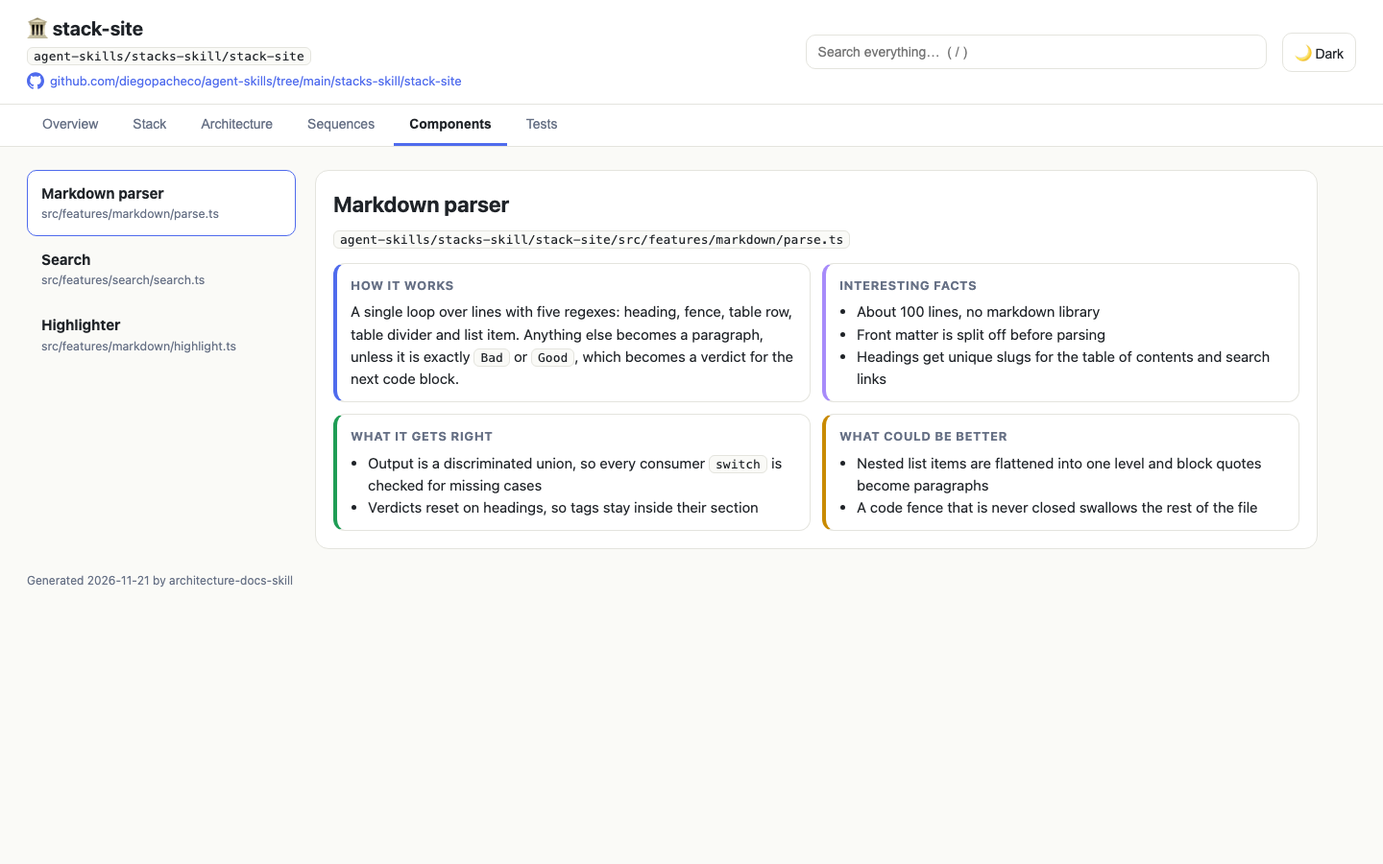
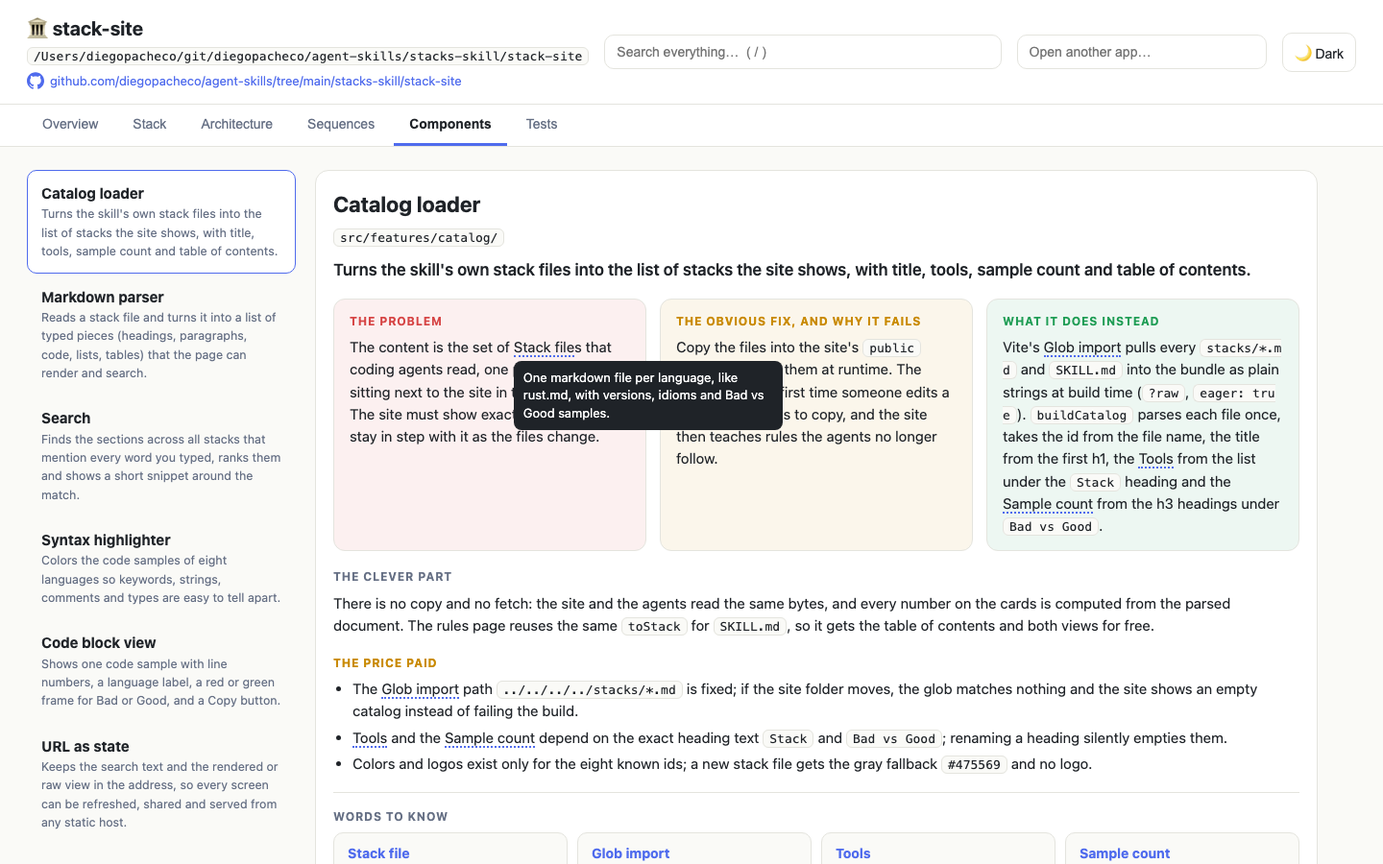
architecture-docs-skill: swimlane sequences with a why per step, problem-first components with words to know
Components are 5-7 per site, picked on the left, with hover terms validated by the build.

diff --git a/architecture-docs-skill/template/site.html b/architecture-docs-skill/template/site.html
@@ -35,8 +35,11 @@ table{width:100%;border-collapse:collapse}td,th{text-align:left;padding:9px 10px
 .about{margin-top:16px}.about h3{margin:0 0 8px}.about ol{margin:0;padding-left:22px}.about li{margin:4px 0}
 .notes{display:grid;grid-template-columns:1fr 1fr;gap:12px;margin-top:16px}.note{border:1px solid var(--line);border-left:4px solid var(--acc);border-radius:12px;padding:12px 14px;background:var(--card)}.note b{display:block;margin-bottom:4px}
 .files{margin-top:14px;display:flex;gap:8px;flex-wrap:wrap;align-items:center;color:var(--mute);font-size:13px}
-.q4{display:grid;grid-template-columns:1fr 1fr;gap:12px}.q4>div{border:1px solid var(--line);border-radius:12px;padding:12px 14px}.q4 h4{margin:0 0 6px;font-size:13px;text-transform:uppercase;letter-spacing:.04em;color:var(--mute)}.q4 ul{margin:0;padding-left:18px}
-.q4 .r{border-left:4px solid var(--ok)}.q4 .b{border-left:4px solid var(--warn)}.q4 .h{border-left:4px solid var(--acc)}.q4 .f{border-left:4px solid #a78bfa}
+.cc .one{font-size:17px;font-weight:600;margin:10px 0 0}.cc .sec{margin-top:18px}.cc .sec h4{margin:0 0 6px;font-size:12px;letter-spacing:.07em;text-transform:uppercase;color:var(--mute)}.cc .sec p{margin:0}.cc .sec ul{margin:0;padding-left:20px}.cc .sec li{margin:4px 0}.cc .warn h4{color:var(--warn)}
+.flow3{display:grid;grid-template-columns:repeat(3,1fr);gap:14px;margin-top:16px}.flow3>div{border-radius:12px;padding:14px 16px;border:1px solid var(--line)}.flow3 h4{margin:0 0 6px;font-size:12px;letter-spacing:.07em;text-transform:uppercase}
+.flow3 .p1{background:#d6454514}.flow3 .p1 h4{color:var(--bad)}.flow3 .p2{background:#c98a0014}.flow3 .p2 h4{color:var(--warn)}.flow3 .p3{background:#1f9d5514}.flow3 .p3 h4{color:var(--ok)}
+.words{border-top:1px solid var(--line);padding-top:16px;margin-top:22px}.terms{display:grid;grid-template-columns:repeat(auto-fill,minmax(230px,1fr));gap:10px}.terms div{background:var(--bg);border:1px solid var(--line);border-radius:10px;padding:10px 14px;font-size:14px}.terms b{display:block;color:var(--acc)}
+.term{border-bottom:2px dotted var(--acc);cursor:help;position:relative}.term:hover:after{content:attr(data-d);position:absolute;left:0;top:130%;width:260px;background:var(--ink);color:var(--card);font-size:13px;line-height:1.45;padding:8px 10px;border-radius:8px;z-index:5;font-weight:400}
 .stk{display:grid;grid-template-columns:repeat(auto-fill,minmax(250px,1fr));gap:12px}.stk h3{grid-column:1/-1;margin:14px 0 0;font-size:13px;text-transform:uppercase;letter-spacing:.06em;color:var(--mute)}
 .tech{display:grid;grid-template-columns:44px 1fr;gap:4px 12px;align-items:center;text-decoration:none;color:inherit;transition:.15s}a.tech:hover{border-color:var(--acc);transform:translateY(-2px)}
 .tech .lg{grid-row:span 2;width:44px;height:44px;border-radius:10px;background:var(--bg);border:1px solid var(--line);display:grid;place-items:center}.tech .lg svg{width:26px;height:26px}.tech .lg span{font-weight:800;font-size:15px;color:var(--acc)}
@@ -45,7 +48,7 @@ table{width:100%;border-collapse:collapse}td,th{text-align:left;padding:9px 10px
 .ctr .present b{color:var(--ok)}.ctr .partial b{color:var(--warn)}.ctr .missing b{color:var(--bad)}.ctr .n\/a b{color:var(--mute)}.ctr .total{background:var(--acc);border-color:var(--acc)}.ctr .total b,.ctr .total span{color:#fff}
 .loc{margin-top:16px}.loc h3{margin:0 0 4px}.loc .sum{color:var(--mute);font-size:13px;margin:0 0 12px}.lrow{display:grid;grid-template-columns:24px 120px 1fr 170px;gap:10px;align-items:center;margin:7px 0;font-size:14px}.lrow svg{width:20px;height:20px}.lrow .mono{font-size:10px;font-weight:800;color:var(--acc)}.lrow i{display:block;height:12px;border-radius:6px;background:var(--acc);min-width:3px}.lrow span{text-align:right;color:var(--mute);font-variant-numeric:tabular-nums}.lrow span b{color:var(--ink)}
 .runner{color:var(--mute);font-size:14px;margin:0 0 14px}.foot{color:var(--mute);font-size:12px;padding:0 28px 30px}
-@media (max-width:900px){.md,.notes,.q4{grid-template-columns:1fr}.top{flex-wrap:wrap}}
+@media (max-width:900px){.md,.notes,.flow3{grid-template-columns:1fr}.top{flex-wrap:wrap}}
 </style></head><body>
 <div class="top"><div><h1>🏛 <span id="pn"></span></h1><div class="where" id="wh"></div></div><div class="search"><input id="q" placeholder="Search everything…  ( / )" aria-label="Search"><div class="results" id="r" hidden></div></div><div class="search apps" id="ap" hidden><input id="aq" placeholder="Open another app…" aria-label="Open another app"><div class="results" id="ar" hidden></div></div><button class="btn" id="th"></button></div>
 <div class="tabs" id="tb"></div><div class="pane" id="p"></div><div class="foot" id="ft"></div>
@@ -114,9 +117,14 @@ function testsView() {
   ${D.tests.runner ? `<p class="runner">Runner: ${rich(D.tests.runner)}</p>` : ""}
   <table><tr><th>Kind</th><th>Count</th><th>Status</th><th>Where</th><th>Notes</th></tr>${T.map(t => `<tr><td><b>${esc(t.kind)}</b></td><td><b>${t.count.toLocaleString()}</b></td><td><span class="pill ${t.status}">${STATUS[t.status]}</span></td><td><code>${esc(t.where || "-")}</code></td><td>${rich(t.note)}</td></tr>`).join("")}</table>`;
 }
-const quad = c => { const li = a => a.map(x => `<li>${rich(x)}</li>`).join(""); return `<div class="q4"><div class="h"><h4>How it works</h4>${rich(c.how)}</div><div class="f"><h4>Interesting facts</h4><ul>${li(c.facts)}</ul></div><div class="r"><h4>What it gets right</h4><ul>${li(c.right)}</ul></div><div class="b"><h4>What could be better</h4><ul>${li(c.better)}</ul></div></div>`; };
+const termed = (c, s) => String(s ?? "").split(/(`[^`]+`)/).map((part, i) => i % 2 ? rich(part) : esc(part).replace(/\[([^\]]+)\]/g, (m, w) => { const t = c.terms.find(x => x[0].toLowerCase() === w.toLowerCase()); return t ? `<span class="term" data-d="${esc(plain(t[1]))}">${w}</span>` : w; })).join("");
+const compCard = c => `<div class="card cc"><h2 style="margin:0 0 4px">${esc(c.name)}</h2><code class="cp" title="Click to copy" data-path="${esc(full(c.path))}">${esc(c.path)}</code><p class="one">${rich(c.one)}</p>
+<div class="flow3"><div class="p1"><h4>The problem</h4>${termed(c, c.problem)}</div><div class="p2"><h4>The obvious fix, and why it fails</h4>${termed(c, c.naive)}</div><div class="p3"><h4>What it does instead</h4>${termed(c, c.instead)}</div></div>
+<div class="sec"><h4>The clever part</h4><p>${termed(c, c.clever)}</p></div>
+<div class="sec warn"><h4>The price paid</h4><ul>${c.better.map(x => `<li>${termed(c, x)}</li>`).join("")}</ul></div>
+<div class="sec words"><h4>Words to know</h4><div class="terms">${c.terms.map(([w, d]) => `<div><b>${esc(w)}</b>${rich(d)}</div>`).join("")}</div></div></div>`;
 const seqExtra = s => `<div class="notes">${(s.notes || []).map(n => `<div class="note"><b>${rich(n.q)}</b>${rich(n.a)}</div>`).join("")}</div>${s.code && s.code.length ? `<div class="files">Code: ${s.code.map(c => `<code class="cp" title="Click to copy" data-path="${esc(full(c))}">${esc(c)}</code>`).join("")}</div>` : ""}`;
-const list = (items, cur, kind) => `<div class="list">${items.map(x => `<div class="${x.id === cur ? "on" : ""}" data-${kind}="${esc(x.id)}"><b>${esc(x.title || x.name)}</b><small>${esc(plain(x.why || x.path))}</small></div>`).join("")}</div>`;
+const list = (items, cur, kind) => `<div class="list">${items.map(x => `<div class="${x.id === cur ? "on" : ""}" data-${kind}="${esc(x.id)}"><b>${esc(x.title || x.name)}</b><small>${esc(plain(x.why || x.one || x.path))}</small></div>`).join("")}</div>`;
 
 const TABS = { overview: "Overview", stack: "Stack", arch: "Architecture", seq: "Sequences", comp: "Components", tests: "Tests" };
 const state = { tab: "overview", seq: D.sequences[0]?.id, open: new Set(), comp: D.components[0]?.id };
@@ -128,7 +136,7 @@ function render() {
     stack: `<div class="stk">${stackView()}</div>`,
     arch: `<div class="card">${archSvg()}</div>${about()}`,
     seq: s ? `<div class="md">${list(D.sequences, state.seq, "seq")}<div><div class="card"><div class="ctrl"><button class="btn" id="oa">${state.open.size === s.steps.length ? "Close all" : "Open all"}</button><span>Click a step to see why it happens</span></div>${lanes(s, state.open)}</div>${seqExtra(s)}</div></div>` : "",
-    comp: c ? `<div class="md">${list(D.components, state.comp, "comp")}<div class="card"><h2 style="margin:0 0 6px">${esc(c.name)}</h2><p style="margin:0 0 14px"><code class="cp" title="Click to copy" data-path="${esc(full(c.path))}">${esc(full(c.path))}</code></p>${quad(c)}</div></div>` : "",
+    comp: c ? `<div class="md">${list(D.components, state.comp, "comp")}${compCard(c)}</div>` : "",
     tests: testsView()
   }[state.tab];
   tb.querySelectorAll("button").forEach(b => b.onclick = () => { state.tab = b.dataset.k; render(); });
@@ -146,7 +154,7 @@ function searchIndex() {
     ...D.stack.map(s => ({ sec: "Stack", title: s.name, text: plain(`${s.layer} ${s.version} ${s.why}`), target: "stack" })),
     ...D.arch.nodes.map(n => ({ sec: "Architecture", title: n.label, text: n.sub || "", target: "arch" })),
     ...D.sequences.map(s => ({ sec: "Sequence", title: s.title, text: plain([s.why, ...s.steps.flatMap(x => [x[2], x[3]]), ...(s.notes || []).flatMap(n => [n.q, n.a]), ...(s.code || [])].join(" ")), target: "seq:" + s.id })),
-    ...D.components.map(c => ({ sec: "Component", title: c.name, text: plain([c.path, c.how, ...c.facts, ...c.right, ...c.better].join(" ")), target: "comp:" + c.id })),
+    ...D.components.map(c => ({ sec: "Component", title: c.name, text: plain([c.path, c.one, c.problem, c.naive, c.instead, c.clever, ...c.better, ...c.terms.flat()].join(" ")).replace(/[\[\]]/g, ""), target: "comp:" + c.id })),
     ...D.tests.kinds.map(t => ({ sec: "Tests", title: t.kind, text: plain(`${t.count} ${t.status} ${t.where || ""} ${t.note}`), target: "tests" }))
   ];
 }

diff --git a/architecture-docs-skill/tests/test_scripts.py b/architecture-docs-skill/tests/test_scripts.py
@@ -27,13 +27,13 @@ def valid_doc(root):
     write(root, "src/b.rs", "fn b() {}\n")
     write(root, "src/c.rs", "fn c() {}\n")
     seq = lambda i: {"id": f"s{i}", "title": f"Flow {i}", "why": "w", "actors": ["A", "B"], "steps": [["A", "B", "call", "why call"], ["B", "B", "self", "why self"], ["B", "A", "reply", "why reply"], ["A", "A", "done", "why done"]], "notes": [{"q": "q1", "a": "a1"}, {"q": "q2", "a": "a2"}], "code": ["src/a.rs:1"]}
-    comp = lambda i, f: {"id": f"c{i}", "name": f"C{i}", "path": f, "how": "h", "facts": ["f"], "right": ["r"], "better": ["b"]}
+    comp = lambda i, f: {"id": f"c{i}", "name": f"C{i}", "path": f, "one": "o", "problem": "A [Job] is slow.", "naive": "n", "instead": "Uses `q[0]` per [job].", "clever": "c", "better": ["b"], "terms": [["Job", "one unit of work"], ["Tick", "a timer beat"], ["Slot", "room for one job"]]}
     return {
         "project": "P", "path": root, "repo": "", "tagline": "t", "summary": ["one", "two", "three"],
         "stack": [{"layer": "Backend", "name": "Rust", "version": "1.91", "logo": "rust", "url": "https://www.rust-lang.org", "why": "w"}],
         "arch": {"nodes": [{"id": n, "label": n.upper(), "sub": "", "kind": "core", "col": i, "row": 0} for i, n in enumerate("abcdef")], "edges": [["a", "b", "x"]]},
         "sequences": [seq(1), seq(2), seq(3)],
-        "components": [comp(1, "src/a.rs"), comp(2, "src/b.rs"), comp(3, "src/")],
+        "components": [comp(1, "src/a.rs"), comp(2, "src/b.rs"), comp(3, "src/"), comp(4, "src/c.rs"), comp(5, "src/a.rs")],
         "tests": {"runner": "", "kinds": [{"kind": k, "status": "present" if k == "Unit" else "missing", "count": 3 if k == "Unit" else 0, "where": "src", "note": "n"} for k in build.TEST_KINDS]},
     }
 
@@ -125,6 +125,42 @@ class ValidateTest(unittest.TestCase):
             doc = valid_doc(root)
             doc["sequences"][0]["steps"][0] = ["A", "B", "call", ""]
             with self.assertRaisesRegex(build.DataError, "why is required"):
+                build.validate(doc)
+
+    def test_fewer_than_five_components_fail_because_the_page_promises_five_to_seven(self):
+        with tempfile.TemporaryDirectory() as root:
+            doc = valid_doc(root)
+            doc["components"] = doc["components"][:4]
+            with self.assertRaisesRegex(build.DataError, "components: expected 5-7"):
+                build.validate(doc)
+
+    def test_a_marked_word_missing_from_terms_fails_because_its_hover_would_explain_nothing(self):
+        with tempfile.TemporaryDirectory() as root:
+            doc = valid_doc(root)
+            doc["components"][0]["clever"] = "It uses a [Frontier]."
+            with self.assertRaisesRegex(build.DataError, r"\[Frontier\] is marked"):
+                build.validate(doc)
+
+    def test_brackets_inside_code_are_not_term_markers_so_indexing_code_stays_valid(self):
+        with tempfile.TemporaryDirectory() as root:
+            doc = valid_doc(root)
+            doc["components"][0]["clever"] = "Reads `BACKOFF[failures - 1]` on each retry."
+            build.validate(doc)
+
+    def test_a_component_without_a_problem_fails_because_the_card_starts_with_it(self):
+        with tempfile.TemporaryDirectory() as root:
+            doc = valid_doc(root)
+            del doc["components"][0]["problem"]
+            with self.assertRaisesRegex(build.DataError, "missing problem"):
+                build.validate(doc)
+
+    def test_too_few_terms_fail_because_words_to_know_needs_at_least_three(self):
+        with tempfile.TemporaryDirectory() as root:
+            doc = valid_doc(root)
+            doc["components"][0]["terms"] = [["Job", "unit"], ["Tick", "beat"]]
+            doc["components"][0]["problem"] = "slow"
+            doc["components"][0]["instead"] = "fast"
+            with self.assertRaisesRegex(build.DataError, "terms: expected 3-6"):
                 build.validate(doc)
 
     def test_two_nodes_in_the_same_cell_fail_because_they_would_overlap(self):

diff --git a/architecture-docs-skill/scripts/build.py b/architecture-docs-skill/scripts/build.py
@@ -83,11 +83,21 @@ def validate(doc):
             need(f in s["actors"] and t in s["actors"], f"sequence {s['id']}: step {f} -> {t} uses an actor not in actors")
         for rel in s.get("code", []):
             exists(project, rel, f"sequence {s['id']}")
-    between(doc["components"], 3, 5, "components")
+    between(doc["components"], 5, 7, "components")
     for c in doc["components"]:
         exists(project, c["path"], f"component {c['id']}")
-        for key in ["how", "facts", "right", "better"]:
+        for key in ["one", "problem", "naive", "instead", "clever", "better", "terms"]:
             need(c.get(key), f"component {c['id']}: missing {key}")
+        short(c["one"], 160, f"component {c['id']} one")
+        between(c["better"], 1, 3, f"component {c['id']} better")
+        between(c["terms"], 3, 6, f"component {c['id']} terms")
+        words = set()
+        for t in c["terms"]:
+            need(isinstance(t, list) and len(t) == 2 and t[0] and t[1], f"component {c['id']}: every term is [word, meaning], got {t}")
+            words.add(t[0].lower())
+        for text in [c["problem"], c["naive"], c["instead"], c["clever"], *c["better"]]:
+            for word in re.findall(r"\[([^\]]+)\]", re.sub(r"`[^`]*`", "", text)):
+                need(word.lower() in words, f"component {c['id']}: [{word}] is marked in the text but is not in terms")
     names = [t.get("kind") for t in doc["tests"]["kinds"]]
     need(names[:len(TEST_KINDS)] == TEST_KINDS, f"tests.kinds must start with {TEST_KINDS}, got {names[:len(TEST_KINDS)]}")
     for t in doc["tests"]["kinds"]:

diff --git a/architecture-docs-skill/SKILL.md b/architecture-docs-skill/SKILL.md
@@ -1,6 +1,6 @@
 ---
 name: architecture-docs-skill
-description: Reads a codebase and generates a self-contained, searchable architecture website with light and dark themes - stack with logos and links, lines of code per language, a hand-drawn architecture diagram, the 3-5 most critical sequence diagrams with notes, a drill down of the 3-5 most interesting components (how they work, interesting facts, what they get right, what could be better) and a test analysis with counters per test kind. Use when the user runs /architecture-docs-skill or asks to document, explain, map or diagram the architecture of a project.
+description: Reads a codebase and generates a self-contained, searchable architecture website with light and dark themes - stack with logos and links, lines of code per language, a hand-drawn architecture diagram, the 3-5 most critical sequence diagrams with notes, a drill down of the 5-7 most interesting components (one plain sentence, the problem, the obvious fix that fails, what the code does instead, the clever part, the price paid, and the words to know) and a test analysis with counters per test kind. Use when the user runs /architecture-docs-skill or asks to document, explain, map or diagram the architecture of a project.
 allowed-tools: [Bash, Read, Write, Glob, Grep, AskUserQuestion]
 ---
 
@@ -23,7 +23,7 @@ Read a project, write one `data.json` that describes it, and run `scripts/build.
 * Never use the words "demo", "demonstration" or "example" in the generated content.
 * Text fields are escaped. Wrap code, files, tables, columns and commands in backticks and they render as `code`. No other markup.
 * Never write line counts in text fields. The site shows the counted lines and two numbers for one file confuse the reader.
-* "What could be better" must be real and specific to this code. Check before you write it: if the code already does it (jitter, backoff, caching, debounce, retries, migrations), it is not a gap.
+* `better` (the price paid) must be real and specific to this code. Check before you write it: if the code already does it (jitter, backoff, caching, debounce, retries, migrations), it is not a gap.
 
 ## Steps
 Report progress as `x/7` while you work.
@@ -32,7 +32,7 @@ Report progress as `x/7` while you work.
 2. **Stack.** One entry per technology that matters: languages, frameworks, databases, queues, runtimes, desktop shells, test tools, AI providers. Take versions from the build files. `why` is one line about what it does in this project.
 3. **Architecture.** Find the real runtime pieces: processes, services, modules with their own job, stores, external systems, and who calls whom. Lay them out left to right in the order a request flows.
 4. **Sequences.** Pick 3-5 flows: the most critical (breaks the product when it fails), the most used, and the most architecture-interesting (crosses processes, queues, schedulers, retries, caches). Follow each one through the code, step by step, and write the `why` of every step from the code you read. For each flow, write the notes a reader will ask after looking at the diagram: how is X decided, where is the state stored, what happens on failure, what runs in parallel, what limits apply. Answer with the real query, column, constant or function name.
-5. **Components.** Pick 3-5 components that are critical or have interesting design. Read them fully.
+5. **Components.** Pick 5-7 components that are critical or have interesting design. Read them fully. Write each one for a reader who has never seen the code: what it is for in plain words, the problem it solves, the obvious approach and why it would fail, what the code does instead, the clever part, the price paid, and the words a reader must know.
 6. **Tests.** Count tests per kind from the code (see Test analysis). Find the command that runs them.
 7. **Build and check.** Write `data.json` in the scratch or temp folder, never inside the project, then run:
    ```
@@ -71,10 +71,13 @@ Set `loc_exclude` to a list of folders (`"generated/"`) or globs (`"reports/*.ht
   "components": [
     {
       "id": "pricing", "name": "Pricing engine", "path": "src/main/java/shop/pricing/",
-      "how": "2-4 sentences on how it works.",
-      "facts": ["2-4 interesting facts with real numbers and names"],
-      "right": ["1-3 things it gets right and why that matters"],
-      "better": ["1-3 concrete things that could be better"]
+      "one": "Computes the final price of a cart, applying coupons and tax in the order the law requires.",
+      "problem": "A cart mixes items, [coupons] and regions. Tax is owed on the discounted price, and rounding per line vs per order gives different totals.",
+      "naive": "Add up the prices, subtract the coupon, add tax. Tax lands on the wrong base and totals drift by a cent from the invoice.",
+      "instead": "Runs [rules] in a fixed order, coupons before tax, rounds per line with `RoundingMode.HALF_EVEN`, and keeps cents as `long`.",
+      "clever": "Each rule is a pure function, so a quote and the final charge run the same code and always agree.",
+      "better": ["1-3 concrete things that could be better, the price paid by this design"],
+      "terms": [["Coupon", "A discount code applied before tax."], ["Rule", "One pricing step: input cart, output cart."], ["Half-even rounding", "Rounds .5 to the even cent so errors cancel out."]]
     }
   ],
   "tests": {
@@ -97,7 +100,9 @@ Set `loc_exclude` to a list of folders (`"generated/"`) or globs (`"reports/*.ht
 * `arch.edges`: `[from, to, label]`, label at most 10 characters or `""`. Keep long edges free of labels.
 * `sequences`: 3-5 flows, at most 6 actors each, 4-10 steps. Every step is `[from, to, label, why]`: label at most 40 characters, `why` 1-2 sentences, at most 400 characters. A step from an actor to itself draws a loop.
 * `why` is what the reader sees when they click the arrow: why this step exists, what it decides, what limit or failure it handles, with the real function, column or constant. Never repeat the label. Read the code for every step; never write a `why` you did not see in the code. `notes`: 2-6 per flow. `code`: the files the flow runs through, `path:line` allowed.
-* `components`: 3-5.
+* `components`: 5-7. `one` at most 160 characters, one plain sentence on what it is for, no jargon. `problem`, `naive`, `instead`: 1-3 sentences each. `clever`: 1-3 sentences. `better`: 1-3 items. `terms`: 3-6 `[word, meaning]` pairs, the words of this code a newcomer must know, explained in plain words.
+* In `problem`, `naive`, `instead`, `clever` and `better`, wrap a term in square brackets, `[Slot]`, to show its meaning on hover. Every marked word must be in `terms` (case does not matter) or the build fails. Brackets inside backticks are code, not terms.
+* `naive` is the approach a reasonable engineer would try first and the concrete way it would fail here. Never a straw man.
 * `tests.kinds`: always these 11 kinds in this order, nothing else before them: `Unit`, `Integration`, `Mocks / fakes`, `Database`, `E2E / UI`, `Contract`, `Property based`, `Stress / load`, `Chaos`, `CSS / visual`, `Fuzz / security`. Add `Snapshot` or other kinds after them only when the project has them.
 
 ## Test analysis
@@ -131,4 +136,4 @@ Count tests, not files. Use the patterns of the project's language and read a sa
 * `<out-dir>/run.sh`: serves the parent folder on `127.0.0.1` from port 8790 up (the next free port), so every site there is reachable from one server, and opens this site.
 * `<out-dir>/stop.sh`: stops that shared server.
 
-The site has tabs for Overview (summary and lines of code per language), Stack, Architecture, Sequences (swimlanes: one lane per actor, one arrow per step, click an arrow to open its why; Open all; notes and code files), Components and Tests. `/` or `Cmd+K` searches everything. The `Open another app…` box searches the other sites built next to it and opens their architecture diagram. The theme toggle remembers light or dark.
+The site has tabs for Overview (summary and lines of code per language), Stack, Architecture, Sequences (swimlanes: one lane per actor, one arrow per step, click an arrow to open its why; Open all; notes and code files), Components (pick on the left; each card: one sentence, problem → obvious fix → what it does instead, the clever part, the price paid, then the words to know, with hover definitions in the text) and Tests. `/` or `Cmd+K` searches everything. The `Open another app…` box searches the other sites built next to it and opens their architecture diagram. The theme toggle remembers light or dark.

diff --git a/architecture-docs-skill/README.md b/architecture-docs-skill/README.md
@@ -1,13 +1,13 @@
 # architecture-docs-skill
 
-A skill for Claude Code and Codex that reads a codebase and generates a self-contained architecture website: the stack with logos and links, lines of code per language, a hand-drawn architecture diagram, the 3-5 most critical sequence diagrams with notes, a drill down of the 3-5 most interesting components, and a test analysis with a counter per test kind. One `index.html` with everything inlined, searchable, with light and dark themes, plus `run.sh` and `stop.sh`.
+A skill for Claude Code and Codex that reads a codebase and generates a self-contained architecture website: the stack with logos and links, lines of code per language, a hand-drawn architecture diagram, the 3-5 most critical sequence diagrams with notes, a drill down of the 5-7 most interesting components written for a newcomer (problem first, plus the words to know), and a test analysis with a counter per test kind. One `index.html` with everything inlined, searchable, with light and dark themes, plus `run.sh` and `stop.sh`.
 
 ## How it Works?
 
 1. You run `/architecture-docs-skill` in a project, or ask the agent to document its architecture.
 2. The agent follows `SKILL.md`: it reads the build files, entry points and code, follows the critical flows through the code, reads the chosen components fully, and counts the tests per kind.
 3. It writes everything it found into one `data.json`: stack, architecture nodes and edges, sequences with notes, components, test counts.
-4. `scripts/build.py` validates the data: every component path and code file must exist in the project, every sequence step must use a known actor, two diagram nodes cannot share a cell, a missing test kind cannot have a count. Any error stops the build.
+4. `scripts/build.py` validates the data: every component path and code file must exist in the project, every sequence step must use a known actor, two diagram nodes cannot share a cell, a missing test kind cannot have a count, and a word marked like `[Slot]` must be defined in the component's terms. Any error stops the build.
 5. `scripts/loc.py` counts the non-blank lines per language from the files git tracks, and the build reads the GitHub URL from the git remote. The agent never types those numbers.
 6. The build inlines the data, the template and only the logos the site uses into one `index.html`, and writes `run.sh` and `stop.sh` next to it.
 
@@ -21,7 +21,7 @@ A skill for Claude Code and Codex that reads a codebase and generates a self-con
 * **Stack:** one card per technology, grouped by layer, with its logo, version, link to its site and why the project uses it.
 * **Architecture:** a hand-drawn diagram laid out left to right in request order, colored by kind (actors, edges, core, data, external).
 * **Sequences:** 3-5 flows picked because they are critical, most used or architecturally interesting. Swimlanes draw one lane per actor and one arrow per step; clicking an arrow opens why that step happens, Open all opens every step, and notes under it answer the questions the diagram raises with the real query, column or constant.
-* **Components:** 3-5 deep dives, each with the full path to the code and four boxes: how it works, interesting facts, what it gets right, what could be better.
+* **Components:** 5-7 deep dives, picked on the left. Each card has one plain sentence, then the problem, the obvious fix and why it fails, what the code does instead, the clever part, the price paid, and the words to know. Marked words show their meaning on hover.
 * **Tests:** counters for 11 test kinds (unit, integration, mocks / fakes, database, E2E / UI, contract, property based, stress / load, chaos, CSS / visual, fuzz / security), the command that runs them, and where each missing kind would pay off.
 * **Header:** the full path of the project (click to copy) and its GitHub link when the remote is on GitHub.
 * **Search:** `/` or `Cmd+K` searches every section, highlights matches and jumps to them.
@@ -48,7 +48,7 @@ A skill for Claude Code and Codex that reads a codebase and generates a self-con
 | `stack[]` | `layer`, `name`, `version`, `logo` (Simple Icons slug), `url`, `why` |
 | `arch.nodes[]` / `arch.edges[]` | Nodes with `kind`, `col`, `row`; edges as `[from, to, label]` |
 | `sequences[]` | `actors`, `steps` as `[from, to, label]`, `notes` as `{q, a}`, `code` files |
-| `components[]` | `path`, `how`, `facts`, `right`, `better` |
+| `components[]` | `path`, `one`, `problem`, `naive`, `instead`, `clever`, `better`, `terms` |
 | `tests` | `runner` and `kinds[]` with `kind`, `status`, `count`, `where`, `note` |
 
 The build adds `loc`, `repo` and `generated`. Text wrapped in backticks renders as code; everything else is escaped.
@@ -119,7 +119,7 @@ Generated for [stacks-skill/stack-site](../stacks-skill/stack-site), the stack c
 
 ![sequences](printscreens/04-sequences.png)
 
-**Components:** the markdown parser with its full path and the four boxes.
+**Components:** one component card, from the problem to the words to know.
 
 ![components](printscreens/05-components.png)
 
